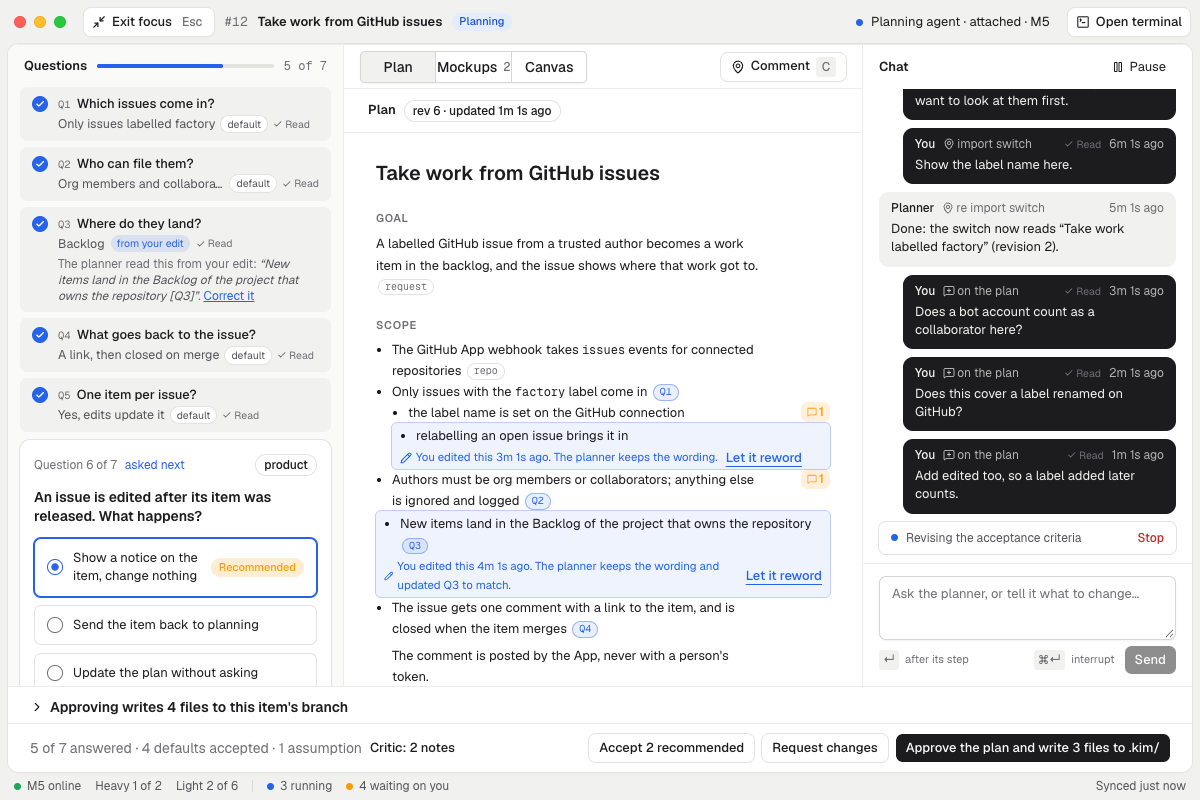
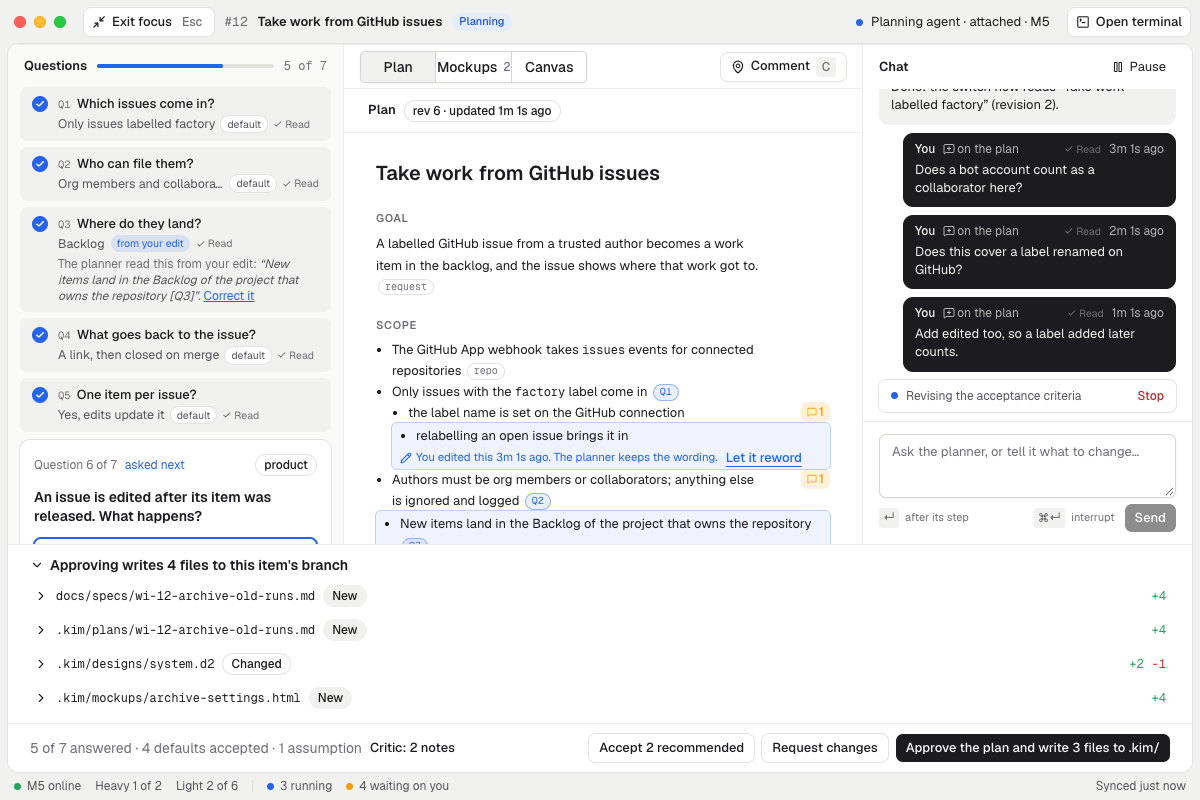
Review of #160: symbols tell options apart, stored case-fix edits stay kept, ticked items count, the list folds only when narrow
- editAnswer: only sentence punctuation, quotes and brackets at the edges are loose, so one loose
  match can't turn "C#" or "C++" into "C".
- A removed block the edit itself wrote back in another case doesn't count as back, so footprints
  stored before the case-insensitive comparison keep working (tested in the old shape).
- Readiness: unticked template boxes drop with their label; a ticked item keeps its words; [x](url)
  is a link; images with parentheses in the URL and reference-style images are images.
- The write-back list folds only below 1100px wide (the default 1200x800 window keeps it open);
  planningLayout and mediaStore are tested.

Claude-Session: https://claude.ai/code/session_01Y83vhCJB2njLk3iZzd3J9U

diff --git a/packages/runner-contract/src/plan-blocks.ts b/packages/runner-contract/src/plan-blocks.ts
@@ -300,6 +300,17 @@ function exactly(blocks: PlanBlock[], section: string, text: string): number {
 const sayingOf = (text: string) =>
   /^\s*(```|~~~)/.test(text) ? text : foldSpace(content(text)).toLowerCase();
 
+/**
+ * What an edit removed that must stay out: not what the edit itself wrote back in another case or
+ * marker ("- use postgres" → "- Use Postgres"). Footprints stored before the case-insensitive
+ * comparison (review of #160) counted `max` by exact text, so such an entry would otherwise forbid
+ * the very line the edit asks to keep.
+ */
+function standingGone(footprint: EditFootprint): EditFootprint["gone"] {
+  const own = new Set(footprint.blocks.map((b) => `${b.section}␟${sayingOf(b.text)}`));
+  return footprint.gone.filter((g) => !own.has(`${g.section}␟${sayingOf(g.text)}`));
+}
+
 /** How many times each block (section, parent and text) appears in a plan. */
 export function planCounts(md: string): Map<string, number> {
   const counts = new Map<string, number>();
@@ -321,7 +332,9 @@ export function droppedEdits<E extends { footprint: EditFootprint }>(md: string,
     const need = new Map<string, number>();
     for (const b of e.footprint.blocks) need.set(keyOf(b), (need.get(keyOf(b)) ?? 0) + 1);
     const writes = [...need].every(([k, n]) => (counts.get(k) ?? 0) - (used.get(k) ?? 0) >= n);
-    const removed = e.footprint.gone.every((g) => exactly(blocks, g.section, g.text) <= g.max);
+    const removed = standingGone(e.footprint).every(
+      (g) => exactly(blocks, g.section, g.text) <= g.max,
+    );
     if (!writes || !removed) return true;
     for (const [k, n] of need) used.set(k, (used.get(k) ?? 0) + n);
     return false;
@@ -355,7 +368,7 @@ export function whyNotKept(md: string, footprint: EditFootprint): string {
     (k) => k.section && !sections.has(k.section),
   );
   if (lost) return `its section "${lost.section}" is no longer in the plan`;
-  const back = footprint.gone.find((g) => exactly(blocks, g.section, g.text) > g.max);
+  const back = standingGone(footprint).find((g) => exactly(blocks, g.section, g.text) > g.max);
   if (back)
     return `"${content(back.text)}", which it removed, is back in ${back.section || "the plan"}`;
   const missing = footprint.blocks.find(
@@ -467,6 +480,12 @@ const plain = (t: string) =>
     .toLowerCase()
     .replace(/^[^\p{L}\p{N}]+|[^\p{L}\p{N}]+$/gu, "");
 
+/** An answer for matching an option: case and spacing aside, edge sentence punctuation dropped. */
+const looseAnswer = (t: string) =>
+  foldSpace(t)
+    .toLowerCase()
+    .replace(/^[\s"'“”‘’(«[]+|[\s.,;:!?"'“”‘’)»\]]+$/gu, "");
+
 /**
  * What an edit changed on the line carrying `tag`: the words of the new line between the words it
  * shares with the old line at the start and at the end. Null when no line carries the tag.
@@ -502,7 +521,9 @@ export function changedSpan(before: string, after: string, tag: string): string 
 export function editAnswer(span: string | null, options: string[]): string | null {
   if (!span || !plain(span)) return null;
   if (options.length === 0) return span.trim().replace(/^[,;:\s]+|[,;:\s]+$/g, "");
-  const matches = options.filter((o) => plain(o) === plain(span));
+  // Only sentence punctuation, quotes and brackets at the edges are loose ("postgres." is
+  // "Postgres"); a symbol that is part of a name isn't ("C#" and "C++" are not "C").
+  const matches = options.filter((o) => looseAnswer(o) === looseAnswer(span));
   if (matches.length <= 1) return matches[0] ?? null;
   // Options that differ only by punctuation or case ("C", "C#"; "Go", "Go!") need the span to be
   // one of them exactly, after trimming; otherwise nothing is picked and the person is asked.

diff --git a/packages/runner-contract/test/plan-blocks.test.ts b/packages/runner-contract/test/plan-blocks.test.ts
@@ -263,14 +263,33 @@ describe("third review of #85", () => {
     expect(editAnswer(span("- Database: SQLite on disk [Q3]"), [])).toBe("SQLite on disk");
   });
 
-  it("needs an exact match when options differ only by punctuation or case (review of #85)", () => {
+  it("tells options apart by the symbols in their names, and asks when it can't (reviews of #85, #160)", () => {
     const span = (after: string) => changedSpan("- Language: TBD [Q4]", after, "[Q4]");
     const options = ["C", "C#", "C++"];
     expect(editAnswer(span("- Language: C# [Q4]"), options)).toBe("C#");
     expect(editAnswer(span("- Language: C++ [Q4]"), options)).toBe("C++");
     expect(editAnswer(span("- Language: C [Q4]"), options)).toBe("C");
-    expect(editAnswer(span("- Language: c# [Q4]"), options)).toBeNull();
-    expect(editAnswer(span("- Language: C. [Q4]"), options)).toBeNull();
+    expect(editAnswer(span("- Language: c# [Q4]"), options)).toBe("C#");
+    expect(editAnswer(span("- Language: C. [Q4]"), options)).toBe("C");
+    // One loose match isn't enough when the edit names another thing (review of #160).
+    expect(editAnswer(span("- Language: C# [Q4]"), ["C", "Rust"])).toBeNull();
+    expect(editAnswer(span("- Language: C++ [Q4]"), ["C", "Go"])).toBeNull();
+    expect(editAnswer(span("- Language: rust. [Q4]"), ["C", "Rust"])).toBe("Rust");
+    expect(editAnswer(span('- Language: "Go" [Q4]'), ["C", "Go"])).toBe("Go");
+  });
+
+  it("keeps a case-fix edit stored before the case-insensitive comparison (review of #160)", () => {
+    // The old stored shape: `max` counted by exact text, so the edit's own line counted 0.
+    const old: EditFootprint = {
+      blocks: [{ section: "Stack", parent: "", text: "- Use Postgres" }],
+      gone: [{ section: "Stack", parent: "", text: "- use postgres", max: 0 }],
+    };
+    const md = "## Stack\n- Use Postgres";
+    expect(droppedEdits(md, [{ footprint: old }])).toEqual([]);
+    expect(whyNotKept(md, old)).not.toContain("is back");
+    // A new case-fix edit is kept too.
+    const e = edit("## Stack\n- use postgres", 1, 1, "- Use Postgres");
+    expect(droppedEdits(e.result, [e])).toEqual([]);
   });
 
   it("accepts an edit of a fence inside a 10. item (7)", () => {

diff --git a/apps/desktop/test/use-media.test.ts b/apps/desktop/test/use-media.test.ts
@@ -1,0 +1,50 @@
+// Review of #130 and #160: the planning panes fit the window. A narrow window folds the chat (even
+// in focus) and the write-back list; the default window (1200×800) keeps both open.
+import { afterEach, describe, expect, it, vi } from "vitest";
+import { mediaStore, planningLayout, WIDE_PLANNING } from "../src/mainview/lib/use-media.ts";
+
+/** A window whose width can change, with matchMedia for `(min-width: Npx)`. */
+function fakeWindow(width: number) {
+  const listeners = new Set<() => void>();
+  const win = {
+    width,
+    matchMedia: (q: string) => ({
+      matches: win.width >= Number(/min-width:\s*(\d+)px/.exec(q)?.[1] ?? 0),
+      addEventListener: (_: string, f: () => void) => listeners.add(f),
+      removeEventListener: (_: string, f: () => void) => listeners.delete(f),
+    }),
+    resize(w: number) {
+      win.width = w;
+      for (const f of listeners) f();
+    },
+    listeners,
+  };
+  vi.stubGlobal("window", win);
+  return win;
+}
+
+afterEach(() => vi.unstubAllGlobals());
+
+describe("the planning layout in a narrow window (review of #130)", () => {
+  it("follows the window's width as it resizes, and stops listening when unsubscribed", () => {
+    const win = fakeWindow(1200);
+    const store = mediaStore(WIDE_PLANNING);
+    expect(store.read()).toBe(true);
+    const changed = vi.fn();
+    const stop = store.subscribe(changed);
+    win.resize(900);
+    expect(changed).toHaveBeenCalledOnce();
+    expect(store.read()).toBe(false);
+    stop();
+    expect(win.listeners.size).toBe(0);
+  });
+
+  it("keeps the chat and the write-back list open at the default window, folds them when narrow", () => {
+    expect(planningLayout(true, true)).toMatchObject({ chatPinned: true, writeBackOpen: true });
+    expect(planningLayout(true, false)).toMatchObject({ chatPinned: false, writeBackOpen: false });
+    expect(planningLayout(false, true).chatPinned).toBe(false);
+    // The default window (1200 wide) is wide.
+    const win = fakeWindow(1200);
+    expect(planningLayout(true, win.matchMedia(WIDE_PLANNING).matches).writeBackOpen).toBe(true);
+  });
+});

diff --git a/apps/desktop/src/mainview/components/planning.tsx b/apps/desktop/src/mainview/components/planning.tsx
@@ -72,7 +72,7 @@ import { op, submitKey } from "../lib/op.ts";
 import { orphanedComments } from "../lib/plan-blocks.ts";
 import { planningQuery } from "../lib/queries.ts";
 import { answeredTag, holdsRecommendation, recommendedValues } from "../lib/question-card.ts";
-import { useMedia, WIDE_PLANNING } from "../lib/use-media.ts";
+import { planningLayout, useMedia, WIDE_PLANNING } from "../lib/use-media.ts";
 import { setFocus, updateViewState } from "../lib/view-state.ts";
 import { OpenTerminal } from "./open-terminal.tsx";
 import { type Anchor, PlanBody, releaseEdit, YourEdits } from "./plan-body.tsx";
@@ -157,7 +157,8 @@ export function Planning({
     setDraft({ text, questionId });
     setChatOpen(true);
   };
-  const chatPinned = focus && wide;
+  const layout = planningLayout(focus, wide);
+  const chatPinned = layout.chatPinned;
   const showChat = chatPinned || chatOpen;
   // Designs (spec 22) are text in their own notation, not HTML: the mockup panes leave them out.
   const visuals = { ...view, artifacts: view.artifacts.filter((x) => x.kind !== "design") };
@@ -176,9 +177,8 @@ export function Planning({
           onDiscuss={discuss}
           onPreview={setPreview}
           className={cn(
-            "w-[300px] flex-none overflow-y-auto border-line-soft border-r px-3 py-3",
-            focus && wide && "w-[336px]",
-            !wide && "w-[268px]",
+            "flex-none overflow-y-auto border-line-soft border-r px-3 py-3",
+            layout.questionsWidth,
           )}
         />
         <section className="flex min-w-0 flex-1 flex-col bg-panel" data-testid="workspace">
@@ -245,7 +245,7 @@ export function Planning({
             draft={draft}
             onDraft={setDraft}
             onClose={chatPinned ? undefined : () => setChatOpen(false)}
-            className={cn("w-[330px] flex-none border-line-soft border-l", !wide && "w-[300px]")}
+            className={cn("flex-none border-line-soft border-l", layout.chatWidth)}
           />
         ) : (
           <button

diff --git a/packages/core/src/readiness.ts b/packages/core/src/readiness.ts
@@ -63,23 +63,31 @@ export function byPerson(ctx: Pick<HandlerContext, "actor" | "origin">): boolean
 }
 
 /**
- * What's left of a body without template headings, HTML comments, checkbox lines (the box and its
- * label: a template's checklist, review of #117), images and links.
+ * What's left of a body without template headings, HTML comments, a template's unticked checklist
+ * (`- [ ] I searched existing issues`, box and label: review of #117), checkbox markers, images and
+ * links. A ticked item keeps its words (`- [x] Crashes when saving a 2GB file` is a request), and
+ * `- [x](url)` is a link, not a box (review of #160).
  */
 function substance(body: string): string {
-  return body
-    .replace(/<!--[\s\S]*?-->/g, " ")
-    .split("\n")
-    .filter((l) => !/^\s*#{1,6}(\s|$)/.test(l))
-    .filter((l) => !/^\s*([-*+]|\d+[.)])\s*\[[ xX]?\]/.test(l))
-    .map((l) => l.replace(/^\s*([-*+]|\d+[.)])\s*/, ""))
-    .join(" ")
-    .replace(/!\[[^\]]*\]\([^)]*\)/g, " ")
-    .replace(/<img\b[^>]*>/gi, " ")
-    .replace(/\[([^\]]*)\]\([^)]*\)/g, "$1")
-    .replace(/<?https?:\/\/\S+>?/g, " ")
-    .replace(/\s+/g, " ")
-    .trim();
+  return (
+    body
+      .replace(/<!--[\s\S]*?-->/g, " ")
+      .split("\n")
+      .filter((l) => !/^\s*#{1,6}(\s|$)/.test(l))
+      .filter((l) => !/^\s*([-*+]|\d+[.)])\s+\[ ?\](\s|$)/.test(l))
+      // Reference definitions (`[1]: https://…`) are links.
+      .filter((l) => !/^\s*\[[^\]]+\]:\s*\S+/.test(l))
+      .map((l) => l.replace(/^\s*([-*+]|\d+[.)])\s+(\[[xX]\](?=\s|$))?/, ""))
+      .join(" ")
+      // Images, inline (a URL may hold balanced parentheses) or by reference, and HTML images.
+      .replace(/!\[[^\]]*\]\((?:[^()\s]|\([^()]*\))*(?:\s+"[^"]*")?\)/g, " ")
+      .replace(/!\[[^\]]*\]\[[^\]]*\]/g, " ")
+      .replace(/<img\b[^>]*>/gi, " ")
+      .replace(/\[([^\]]*)\]\((?:[^()\s]|\([^()]*\))*(?:\s+"[^"]*")?\)/g, "$1")
+      .replace(/<?https?:\/\/\S+>?/g, " ")
+      .replace(/\s+/g, " ")
+      .trim()
+  );
 }
 
 /**

diff --git a/apps/desktop/src/mainview/lib/use-media.ts b/apps/desktop/src/mainview/lib/use-media.ts
@@ -2,19 +2,35 @@
 // planning panes fit a narrow window by folding the chat and the write-back list).
 import { useSyncExternalStore } from "react";
 
-export function useMedia(query: string): boolean {
-  return useSyncExternalStore(
-    (onChange) => {
+/** The store behind `useMedia`: subscribe to the query's changes, and read it now. */
+export function mediaStore(query: string) {
+  return {
+    subscribe(onChange: () => void) {
       const m = window.matchMedia(query);
       m.addEventListener("change", onChange);
       return () => m.removeEventListener("change", onChange);
     },
-    () => window.matchMedia(query).matches,
-    () => true,
-  );
+    read: () => window.matchMedia(query).matches,
+  };
+}
+
+export function useMedia(query: string): boolean {
+  const store = mediaStore(query);
+  return useSyncExternalStore(store.subscribe, store.read, () => true);
 }
 
 /** Wide enough for the questions, the workspace and the chat side by side. */
 export const WIDE_PLANNING = "(min-width: 1100px)";
-/** Tall enough to open the write-back list under the panes without crowding them. */
-export const TALL_PLANNING = "(min-height: 860px)";
+
+/**
+ * How the planning panes sit in the window (review of #130): in a narrow one the chat folds to its
+ * strip even in focus, the side panes narrow, and the write-back list starts folded.
+ */
+export function planningLayout(focus: boolean, wide: boolean) {
+  return {
+    chatPinned: focus && wide,
+    questionsWidth: wide ? (focus ? "w-[336px]" : "w-[300px]") : "w-[268px]",
+    chatWidth: wide ? "w-[330px]" : "w-[300px]",
+    writeBackOpen: wide,
+  };
+}

diff --git a/packages/core/test/readiness.test.ts b/packages/core/test/readiness.test.ts
@@ -35,6 +35,9 @@ const ORDINARY: [string, string][] = [
   ["Make the sidebar collapsible", "Like Linear's."],
   ["Crash on save", "## What happened\nIt closes on save.\n- [x] I searched existing issues"],
   ["Logo", "Use the new one: [the logo](https://example.com/logo.svg)"],
+  // Review of #160: a ticked item is a request, and `[x](url)` is a link with its text.
+  ["Bug", "- [x] Crashes when saving a 2GB file"],
+  ["Docs", "- [x](https://example.com/docs) is broken"],
 ];
 
 /** Nothing to act on: every one parks. */
@@ -48,11 +51,14 @@ const EMPTY: [string, string][] = [
   // A template's checklist with its labels, and image-only bodies (review of #117).
   [
     "Bug report",
-    "## Checklist\n- [ ] I searched existing issues\n- [x] I read the docs\n* [ ] I can reproduce it",
+    "## Checklist\n- [ ] I searched existing issues\n- [ ] I read the docs\n* [ ] I can reproduce it",
   ],
   ["Screenshot", "![screenshot](https://example.com/s.png)"],
   ["Look", '<img src="https://example.com/s.png" alt="the bug" width="400">'],
   ["Crash", "## Screenshots\n![](https://example.com/a.png) ![b](https://example.com/b.png)"],
+  // Review of #160: a URL with parentheses, and a reference-style image with its definition.
+  ["Diagram", "![arch](https://example.com/wiki/File_(2).png)"],
+  ["Ref", "![screenshot][1]\n\n[1]: https://example.com/s.png"],
 ];
 
 type W = Awaited<ReturnType<typeof world>>;

diff --git a/apps/desktop/src/mainview/components/write-back.tsx b/apps/desktop/src/mainview/components/write-back.tsx
@@ -15,7 +15,7 @@ import { ChevronRightIcon } from "lucide-react";
 import { useMemo } from "react";
 import { lineDiff } from "../lib/line-diff.ts";
 import { read } from "../lib/op.ts";
-import { TALL_PLANNING, useMedia, WIDE_PLANNING } from "../lib/use-media.ts";
+import { planningLayout, useMedia, WIDE_PLANNING } from "../lib/use-media.ts";
 
 /** The write-back for the plan as it stands: keyed on the spec and each artifact's revision. */
 const writeBackQuery = (workItemId: string, view: PlanningView) =>
@@ -44,11 +44,9 @@ export function approveLabel(kimCount: number | undefined): string {
 
 export function WriteBack({ workItemId, view }: { workItemId: string; view: PlanningView }) {
   const data = useWriteBack(workItemId, view, true);
-  // In a small window the list starts folded to its one line, so the panes keep their room
+  // In a narrow window the list starts folded to its one line, so the panes keep their room
   // (review of #130); the approve button still says how many files it writes.
-  const wide = useMedia(WIDE_PLANNING);
-  const tall = useMedia(TALL_PLANNING);
-  const roomy = wide && tall;
+  const roomy = planningLayout(true, useMedia(WIDE_PLANNING)).writeBackOpen;
   if (!data) {
     return (
       <div

diff --git a/docs/adr/0304-triage-scores-readiness-and-can-ask.md b/docs/adr/0304-triage-scores-readiness-and-can-ask.md
@@ -49,7 +49,7 @@ parked 13 of 15 ordinary requests ("App crashes on startup on Windows 11", "Upgr
 and triage (an agent stage) already exists to ask what it needs. So the deterministic check parks
 only what code knows for certain:
 - nothing to act on: no body and a title of fewer than four words, or a body that is only a
-  template's headings (or comments and its checklist, a checkbox line with its label) or only
+  template's headings (or comments and its unticked checklist, a box with its label) or only
   images or a link;
 - an exact duplicate of an open item from the same source (same title and body).
 
@@ -59,5 +59,5 @@ Everything else goes to triage, which decides whether to ask.
 phone or the sf CLI is a person. MCP is an agent acting with a person's token. Intake, the foreman,
 autopilots and the improver aren't people either.
 
-> Amended 2026-11-13 (follow-up to #117): a template's checklist lines count as template, label and
-> all, and a body of only images parks, as the PR said it would.
+> Amended 2026-11-13 (follow-up to #117): a template's unticked checklist lines count as template,
+> label and all (a ticked item keeps its words), and a body of only images parks, as the PR said.

diff --git a/docs/specs/23-triage-questions-and-critic.md b/docs/specs/23-triage-questions-and-critic.md
@@ -61,7 +61,7 @@ Routing triage questions by decision domain (R1 milestone (c)).
   fixed prompt; the backlog card and the item page show "needs info: …" as the status reason.
 - The check (`packages/core/src/readiness.ts`) is a floor for emptiness, not a judgement of
   clarity (review of #117). It parks only an item with nothing to act on (no body and a title under
-  four words, or a body that is only template headings and checklists, images or a link) or an exact duplicate of an open
+  four words, or a body that is only template headings and unticked checklists, images or a link) or an exact duplicate of an open
   item from the same source (`core_work_items_project_title_idx`, migration 0371). Everything else
   goes to triage. "A person" is decided by the surface: the app, the desktop, the phone and the sf
   CLI are; MCP (an agent with a person's token), intake and automation aren't. The tests hold 15
